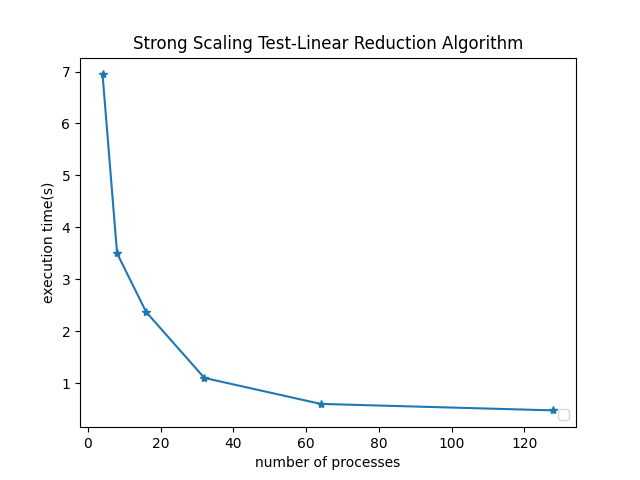
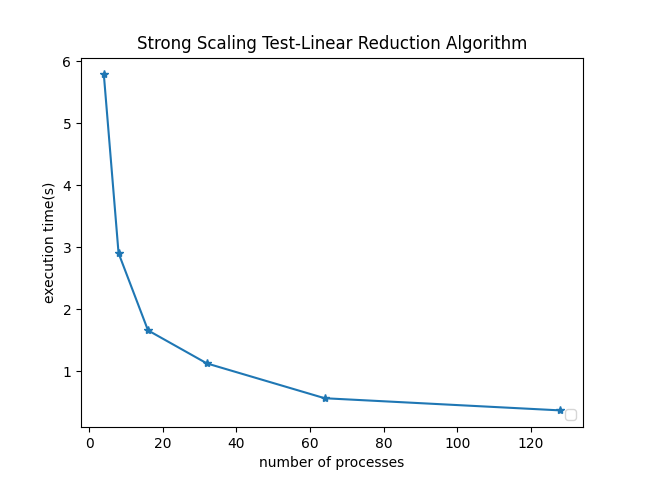
finish A3.4

diff --git a/assignment 3/pi_mpi_3.c b/assignment 3/pi_mpi_3.c
@@ -1,0 +1,81 @@
+#include <stdio.h>
+#include <stdlib.h>
+#include <stdint.h>
+#include <string.h>
+#include <math.h>
+#include <time.h>
+#include <mpi.h>
+
+#define NUM_ITER 1000000000
+
+int main(int argc, char* argv[])
+{
+    int local_count = 0;
+    int rank, num_ranks, i, iter, provided;
+    double x, y, z, pi;
+
+    MPI_Init_thread(&argc, &argv, MPI_THREAD_SINGLE, &provided);
+    
+
+    MPI_Comm_rank(MPI_COMM_WORLD, &rank);
+    MPI_Comm_size(MPI_COMM_WORLD, &num_ranks);
+
+    int flip = NUM_ITER/num_ranks;
+
+    double start_time, stop_time, elapsed_time;
+    start_time = MPI_Wtime();
+
+    srand(time(NULL) + 123456789 + rank*100);
+    
+    if (rank == 0)
+    {
+        int counts[num_ranks - 1];
+        MPI_Request requests[num_ranks - 1];
+        int global_count = 0;
+
+        for (i = 1; i < num_ranks; i++)
+        {
+            MPI_Irecv(&counts[i-1], 1, MPI_INT, i, 0, MPI_COMM_WORLD, &requests[i-1]);
+        }
+        // Calculate PI following a Monte Carlo method
+        for (int iter = 0; iter < flip; iter++)
+        {
+            // Generate random (X,Y) points
+            x = (double)random() / (double)RAND_MAX;
+            y = (double)random() / (double)RAND_MAX;
+            z = sqrt((x*x) + (y*y));
+            
+            // Check if point is in unit circle
+            if (z <= 1.0)
+            {
+                local_count++;
+            }
+        }
+        //printf("before");
+        MPI_Waitall(num_ranks - 1, requests, MPI_STATUSES_IGNORE);
+        //printf("after");
+
+        global_count += local_count;
+        for(i = 0; i < num_ranks - 1; i++)
+        {
+            global_count += counts[i];
+        }
+        stop_time = MPI_Wtime();
+        elapsed_time = stop_time - start_time;
+        if (rank == 0)
+        {
+            // Estimate Pi and display the result
+            pi = ((double)local_count / (double)NUM_ITER) * 4.0; 
+            printf("pi: %f\n", pi);
+            printf("Execution Time: %f\n", elapsed_time);
+        }
+
+    }else
+    {   
+        MPI_Request request;
+        MPI_Isend(&local_count, 1, MPI_INT, 0, 0, MPI_COMM_WORLD, &request);
+    }
+
+    MPI_Finalize();
+    return 0;
+}

diff --git a/assignment 3/pi_mpi_4.c b/assignment 3/pi_mpi_4.c
@@ -1,0 +1,61 @@
+#include <stdio.h>
+#include <stdlib.h>
+#include <stdint.h>
+#include <string.h>
+#include <math.h>
+#include <time.h>
+#include <mpi.h>
+
+#define NUM_ITER 1000000000
+
+int main(int argc, char* argv[])
+{
+    int local_count = 0;
+    int global_count = 0;
+
+    int rank, num_ranks, i, iter, provided;
+    double x, y, z, pi;
+
+    MPI_Init_thread(&argc, &argv, MPI_THREAD_SINGLE, &provided);
+    
+
+    MPI_Comm_rank(MPI_COMM_WORLD, &rank);
+    MPI_Comm_size(MPI_COMM_WORLD, &num_ranks);
+
+    int flip = NUM_ITER/num_ranks;
+
+    double start_time, stop_time, elapsed_time;
+    start_time = MPI_Wtime();
+
+    srand(time(NULL) + 123456789 + rank*100);
+
+    // Calculate PI following a Monte Carlo method
+    for (int iter = 0; iter < flip; iter++)
+    {
+        // Generate random (X,Y) points
+        x = (double)random() / (double)RAND_MAX;
+        y = (double)random() / (double)RAND_MAX;
+        z = sqrt((x*x) + (y*y));
+        
+        // Check if point is in unit circle
+        if (z <= 1.0)
+        {
+            local_count++;
+        }
+    }
+    
+    MPI_Reduce(&local_count, &global_count, 1, MPI_INT, MPI_SUM, 0, MPI_COMM_WORLD);
+
+    stop_time = MPI_Wtime();
+    elapsed_time = stop_time - start_time;
+    if (rank == 0)
+    {
+        // Estimate Pi and display the result
+        pi = ((double)global_count / (double)NUM_ITER) * 4.0; 
+        printf("pi: %f\n", pi);
+        printf("Execution Time: %f\n", elapsed_time);
+    }
+
+    MPI_Finalize();
+    return 0;
+}

diff --git a/assignment 3/plot_pi.py b/assignment 3/plot_pi.py
@@ -10,12 +10,12 @@ number1 = [
     64,
     128]
 time1 =[
-    6.945,
-    3.500,
-    2.371,
-    1.103,
-    0.603,
-    0.478
+    5.787,
+    2.906,
+    1.661,
+    1.128,
+    0.567,
+    0.371
     ]
 
 
@@ -35,12 +35,12 @@ number2 = [
     64,
     128]
 time2 =[
-    6.893,
-    3.912,
-    2.898,
-    1.017,
-    0.625,
-    0.481
+    5.760,
+    2.900,
+    1.756,
+    1.129,
+    0.564,
+    0.367
     ]
 
 
@@ -49,4 +49,53 @@ plt.xlabel('number of processes')
 plt.ylabel('execution time(s)')
 plt.legend(loc=4) 
 plt.title('Strong Scaling Test-Binary Tree Reduction')
+plt.show()
+
+#4.3
+number3 = [
+    4,
+    8,
+    16,
+    32,
+    64,
+    128]
+time3 =[
+    5.778,
+    2.880,
+    1.447,
+    0.941,
+    0.499,
+    0.215
+    ]
+
+plt.plot(number3, time3, '-*')
+plt.xlabel('number of processes')
+plt.ylabel('execution time(s)')
+plt.legend(loc=4) 
+plt.title('Strong Scaling Test-Non-Blocking Linear Reduction Algorithm')
+plt.show()
+
+
+#4.4
+number4 = [
+    4,
+    8,
+    16,
+    32,
+    64,
+    128]
+time4 =[
+    5.789,
+    2.892,
+    2.218,
+    1.251,
+    0.588,
+    0.310
+    ]
+
+plt.plot(number4, time4, '-*')
+plt.xlabel('number of processes')
+plt.ylabel('execution time(s)')
+plt.legend(loc=4) 
+plt.title('Strong Scaling Test-MPI_Reduce')
 plt.show()

diff --git a/assignment 3/reduce_test.c b/assignment 3/reduce_test.c
@@ -1,0 +1,48 @@
+#include <stdio.h>
+#include <stdlib.h>
+#include <stdint.h>
+#include <string.h>
+#include <math.h>
+#include <time.h>
+#include <mpi.h>
+
+int main(int argc,char * argv[])
+{
+    int np, rank, provided;
+
+    MPI_Init_thread(&argc, &argv, MPI_THREAD_SINGLE, &provided);
+    MPI_Comm_rank(MPI_COMM_WORLD,&rank);
+    MPI_Comm_size(MPI_COMM_WORLD,&np);
+    printf("Hello world!   rank:%d  of np:%d\n",rank,np);
+    int a[6][6];
+    int b[6][6];
+
+    for(int i=0;i<6;i++)
+        for(int j=0;j<6;j++)
+        {
+            a[i][j]=rank;
+            b[i][j]=0;
+            if(1==rank){
+                printf("i:%d, j:%d, a value:%d, b value:%d\n",i,j,a[i][j],b[i][j]);
+            }
+        }
+
+    MPI_Reduce(&a,&b,6,MPI_INT,MPI_SUM,0,MPI_COMM_WORLD);
+
+    if(0==rank)
+    {
+        for(int i=0;i<6;i++)
+        {
+            for(int j=0;j<6;j++)
+            {
+                printf("i:%d, j:%d, b:%d \n",i,j,b[i][j]);
+            }
+        }
+    }
+
+
+
+    MPI_Finalize();
+
+    return 0;
+}
